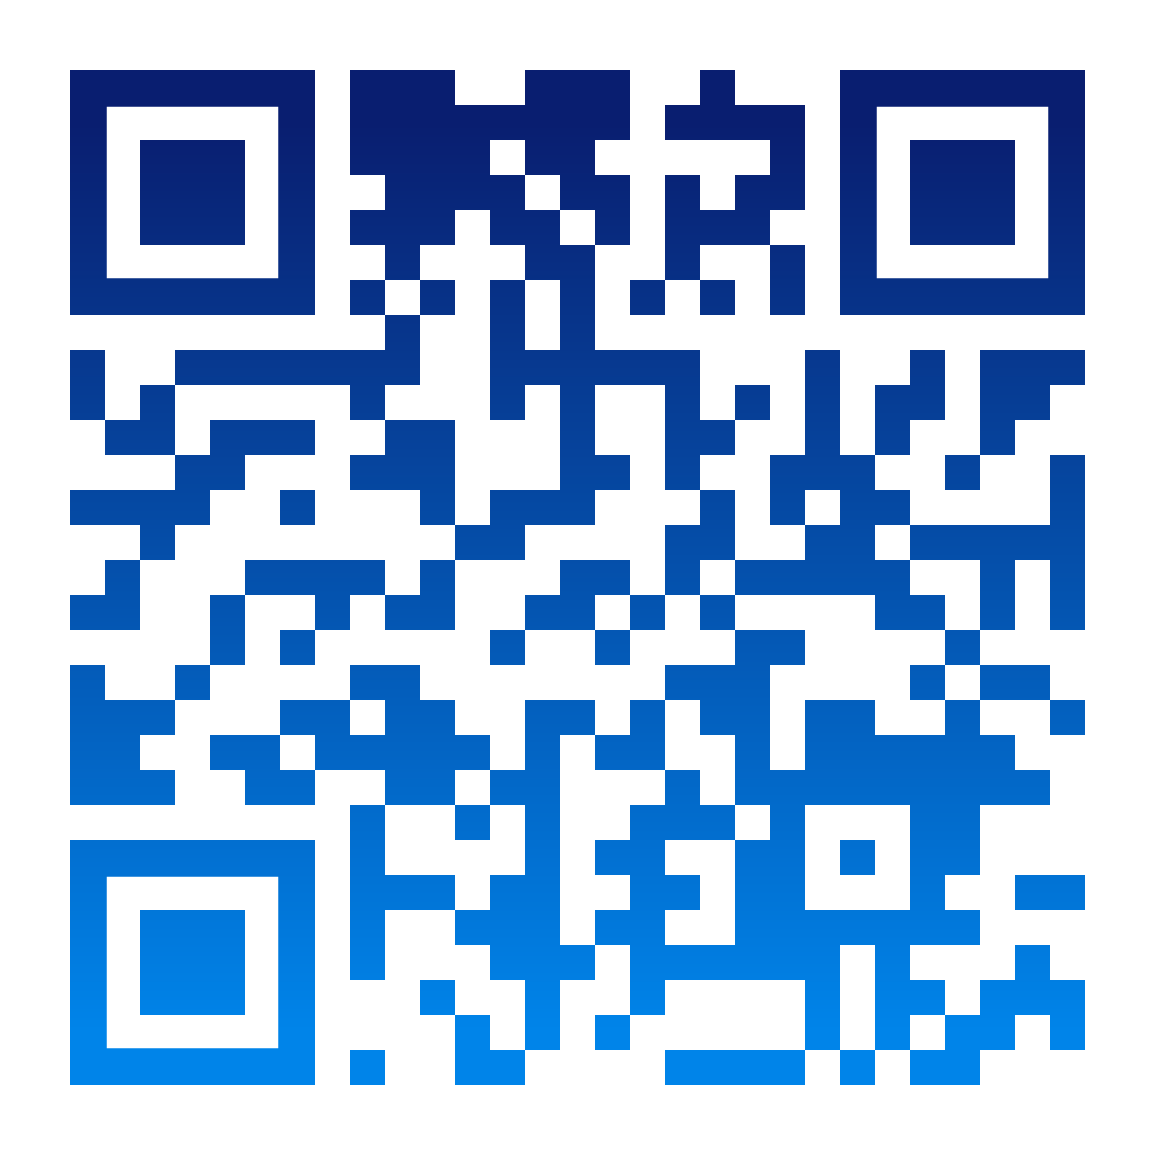
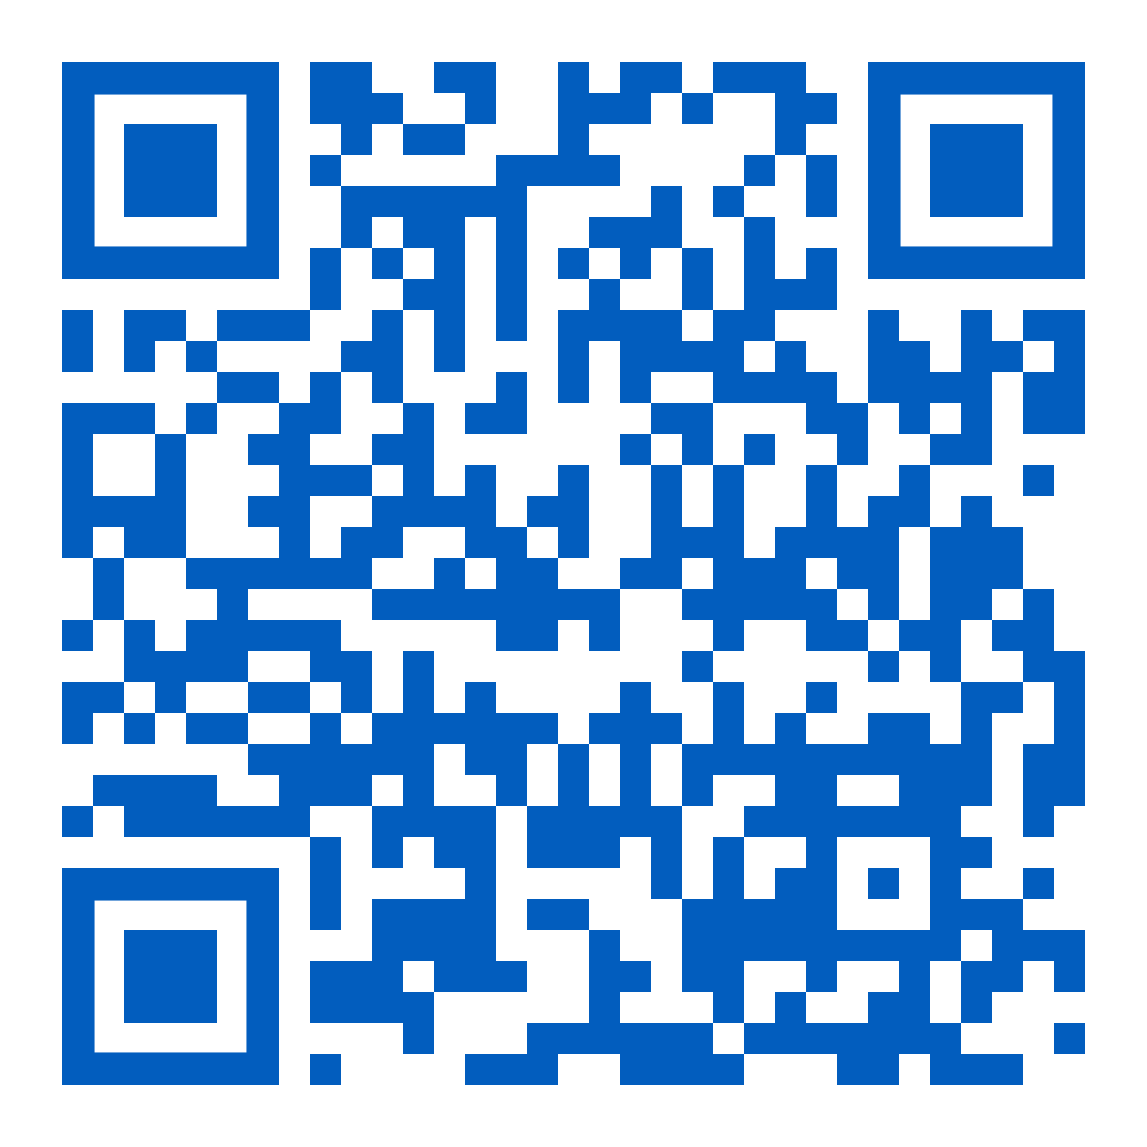
qrcode

diff --git a/test.html b/test.html
@@ -9,9 +9,8 @@
 </head>
 <body>
 <tw-story><noscript><tw-noscript>JavaScript needs to be enabled to play test.</tw-noscript></noscript></tw-story>
-<tw-storydata name="test" startnode="1" creator="Twine" creator-version="2.3.16" ifid="E5B44FC1-2661-4EC0-8824-57175B11AE54" zoom="1" format="Harlowe" format-version="3.2.3" options="" hidden><style role="stylesheet" id="twine-user-stylesheet" type="text/twine-css"></style><script role="script" id="twine-user-script" type="text/twine-javascript"></script><tw-passagedata pid="1" name="start" tags="" position="413,334" size="100,100">You found a dairy.
+<tw-storydata name="test" startnode="1" creator="Twine" creator-version="2.3.16" ifid="E5B44FC1-2661-4EC0-8824-57175B11AE54" zoom="1" format="Harlowe" format-version="3.2.3" options="" hidden><style role="stylesheet" id="twine-user-stylesheet" type="text/twine-css"></style><script role="script" id="twine-user-script" type="text/twine-javascript"></script><tw-passagedata pid="1" name="start" tags="" position="412,333" size="100,100">You found a dairy.
 [[Open the diary]]</tw-passagedata><tw-passagedata pid="2" name="Open the diary" tags="" position="413,486" size="100,100">scan the code and view it on your device
-&lt;img src=&quot;https://i.ibb.co/CJSjydD/qr-code-2.png&quot; alt=&quot;qr-code-2&quot; border=&quot;0&quot;&gt;
 &lt;img src=&quot;image/qr-code.png&quot;&gt;
 [[Continue]]</tw-passagedata><tw-passagedata pid="3" name="Continue" tags="" position="413,636" size="100,100">The story ends.
 Short introduction to out SDG goal.
